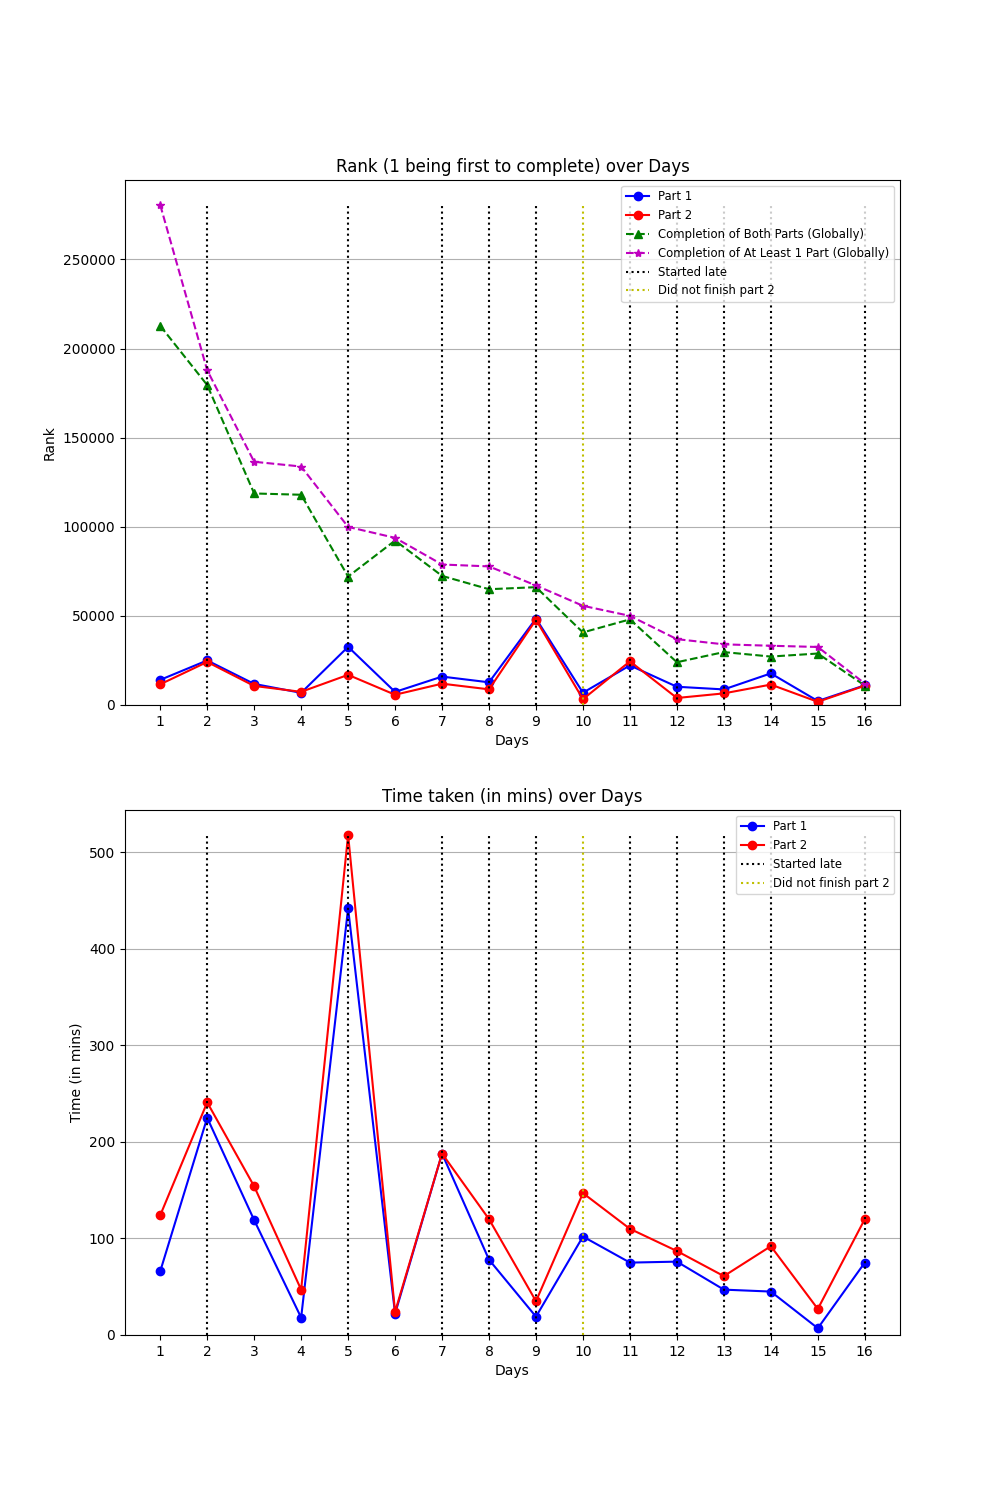
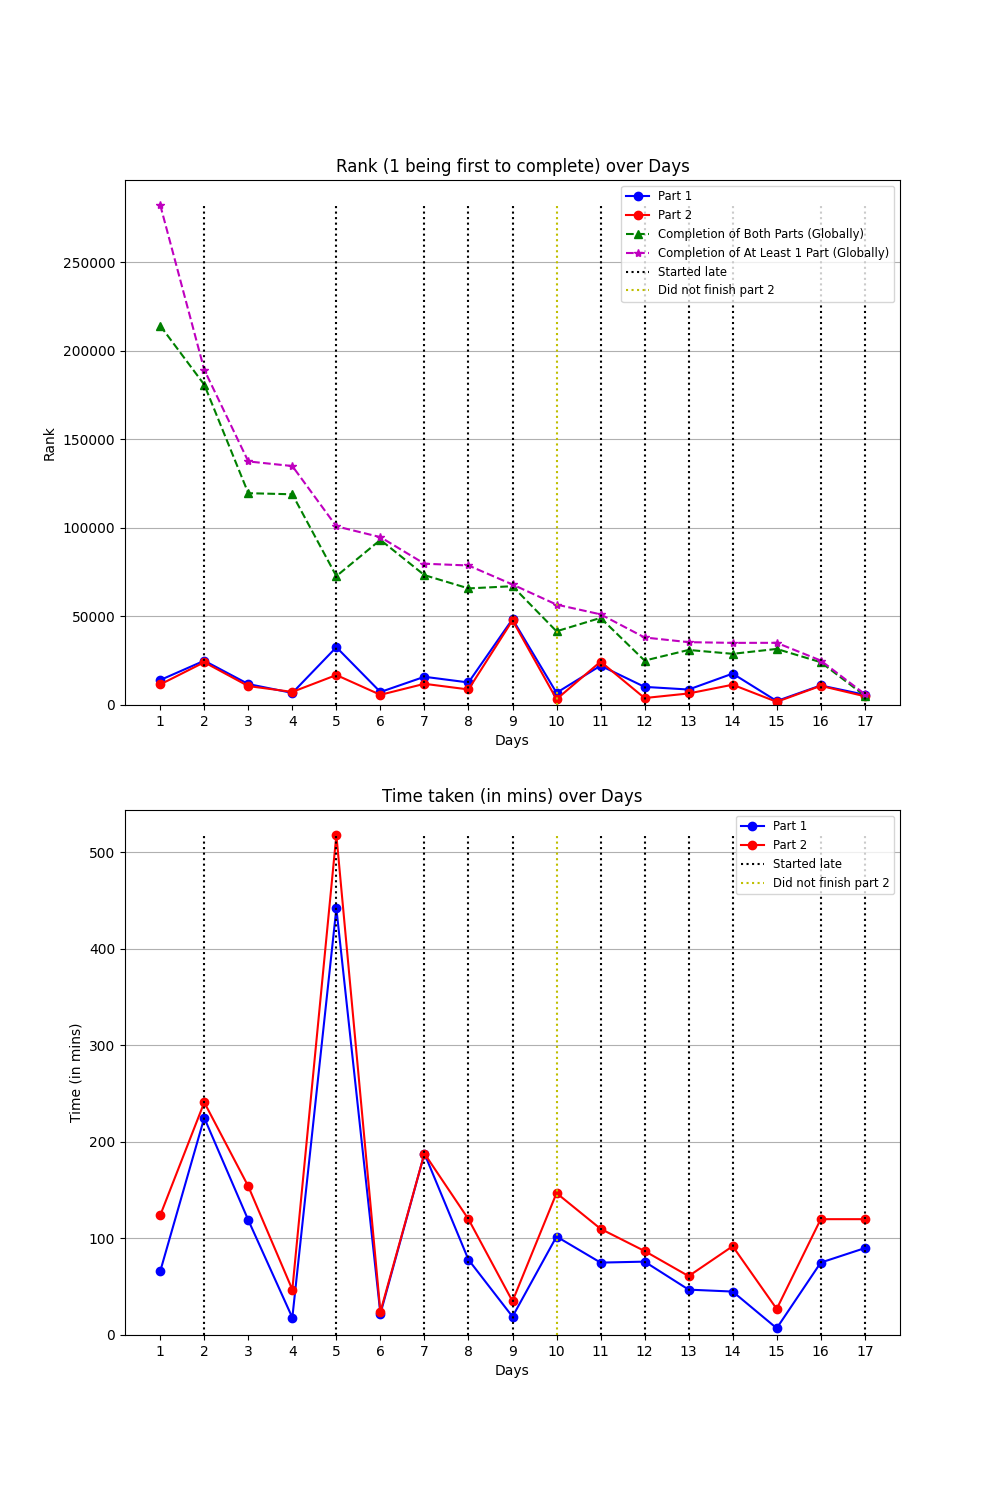
Added day 17 code and stats

diff --git a/stats/stats.py b/stats/stats.py
@@ -4,25 +4,25 @@ import matplotlib.pyplot as plt
 # rank for part 1
 one_rank = [14_101, 25_010, 11_831, 6_816, 32_645, 7_344, 15_939, 
             12_729, 48_507, 6_895, 22_213, 10_237, 8_741, 17_734,
-            2242, 11_047]
+            2_242, 11_047, 5_789]
 
 # rank for part 2                
 two_rank = [11_613, 24_146, 10_693, 7_384, 16_922, 5_753, 11_968, 
             8_778, 47_813, 3_266, 24_483, 3_930, 6_520, 11_457,
-            1790, 10814]
+            1_790, 10_814, 4_946]
 
 # number of people that completed both parts
-two_stars_tot = [212_737, 179_506, 118_680, 117_953, 72_043, 92_262, 72_433,
-                 64_957, 66_104, 40_720, 48_040, 23_999, 29_685, 27_179,
-                 28_878, 10_935]
+two_stars_tot = [214_231, 180_914, 119_630, 119_009, 72_778, 93_262, 73_343,
+                 65_852, 67_092, 41_624, 49_194, 25_077, 31_092, 28_905,
+                 31_663, 24_175, 5_266]
 
 # number of people that completed part 1 only
-add = [67_778, 8_303, 17_778, 15_844, 27_873, 1_511, 6_387, 
-       12_802, 958, 14_929, 1970, 12_941, 4_347, 6_059,
-       3_677, 1_103]
+add = [68_169, 8_398, 17_936, 15_950, 28_137, 1_546, 6_452,
+       12_947, 971, 15_086, 2_008, 13_061, 4_394, 6_191,
+       3_452, 942, 897]
 
 # days where I did not start on time
-anomalies = [2, 5, 7, 8, 9, 11, 12, 13, 14, 16]
+anomalies = [2, 5, 7, 8, 9, 11, 12, 13, 14, 16, 17]
 
 # days where I did not finish
 DNF_2 = [10]
@@ -30,12 +30,12 @@ DNF_2 = [10]
 # time taken for part 1 in (hrs, mins, secs)
 one_time = [(1,6,6), (3,44,38), (1,59,16), (0,18,0), (7,22,24), (0,22,7), (3,8,21), 
             (1,18,15), (0,19,0), (1,41,34), (1,15,0), (1,15,59), (0,47,0), (0,45,0),
-            (0,6,54),(1,15,0)]   
+            (0,6,54), (1,15,0), (1,30,0)]   
 
 # time taken for part 2 in (hrs, mins, secs)
 two_time = [(2,3,32), (4,0,37), (2,34,4), (0,46,44), (8,38,27), (0,24,7), (3,8,29), 
             (1,59,59), (0,35,0), (2,26,53), (1,50,0), (1,27,13), (1,1,7), (1,31,45),
-            (0,27,5), (2,0,0)]
+            (0,27,5), (2,0,0), (2,0,0)]
    
 i = len(one_rank) + 1
 

diff --git a/day_17/day_17.py b/day_17/day_17.py
@@ -1,0 +1,42 @@
+import heapq
+
+FNAME = "day_17.txt"
+
+m = []
+with open(FNAME, "r") as f:
+    for line in f:
+        line = list(line.strip())
+        m.append(list(map(int, line)))
+
+possibles = {(1,0), (0,1), (-1,0), (0,-1)}
+
+# credits to u/xelf for the very very heavy inspiration
+def traverse(step, most):
+    q = [(0, 0, 0, 0, 0)]
+    visited = set()
+    while q:
+        tot, i, j, di, dj = heapq.heappop(q)
+        if i == len(m) - 1 and j == len(m[0]) - 1:
+            return tot
+        elif (i, j, di, dj) in visited: 
+            continue
+        visited.add((i, j, di, dj))
+        leftover = possibles - {(di, dj), (-di, -dj)}
+
+        for ddi, ddj in leftover:
+            tempt, tempi, tempj = tot, i, j
+            for steps in range(1, most + 1):
+                tempi, tempj = tempi + ddi, tempj + ddj
+                if 0 <= tempi < len(m) and 0 <= tempj < len(m[0]):
+                    tempt += m[tempi][tempj]
+                    if steps >= step:
+                        heapq.heappush(q, (tempt, tempi, tempj, ddi, ddj))
+
+def part_1():
+    print(traverse(1, 3))
+
+def part_2():
+    print(traverse(4, 10))
+
+part_1()
+part_2()

diff --git a/README.md b/README.md
@@ -50,6 +50,9 @@ Huge thanks to the creator of AOC, [Eric Wastl](http://was.tl/).
     * Another simple problem (thank you Eric). An interesting introduction to simple hashing algorithms (reminiscent of SHA256). Beyond that it was more a reading problem (skill issue on my part tbh) than a coding problem. Possibly my very first every sub 30 minute submission. Next time I'll try for sub-20!!
 16. The Floor Will Be Lava (2/2 stars)
     * This was slightly harder for me since I was tired and my maze traversal isn't very strong. Started off (yet again) with one-off errors in part 1 and had to implement a queue, but part 2 was ok except the running time was very very bad. I suspect this was due to the way I handled the traversal for each starting point, but honestly I'm just glad to have survived another maze puzzle.
+17. Clumsy Crucible (2/2 stars)
+    * This was a tricky puzzle. I was trying to use DFS until I read a hint on reddit that it was more a Dijkstra problem. I will have to work on my search algorithms, but using (heavy) inspiration from u/xelt on reddit I managed to implement the algorithm using a heap-queue for speed. I don't consider this solved by me since I needed heavy help, but 2 stars is 2 stars nonetheless.
+    * Also, I decided to try out the new navigation system reddit recommended in the form of dx and dy, but using a "turn-only" approach to this problem was entirely u/xelt's idea.
 
 # Analysis of Times and Completion
 From Day 9 onwards, all timings are recorded from when I opened the problem set, not when the problem set is released. I will still indicate if I start late or did not finish as per normal
